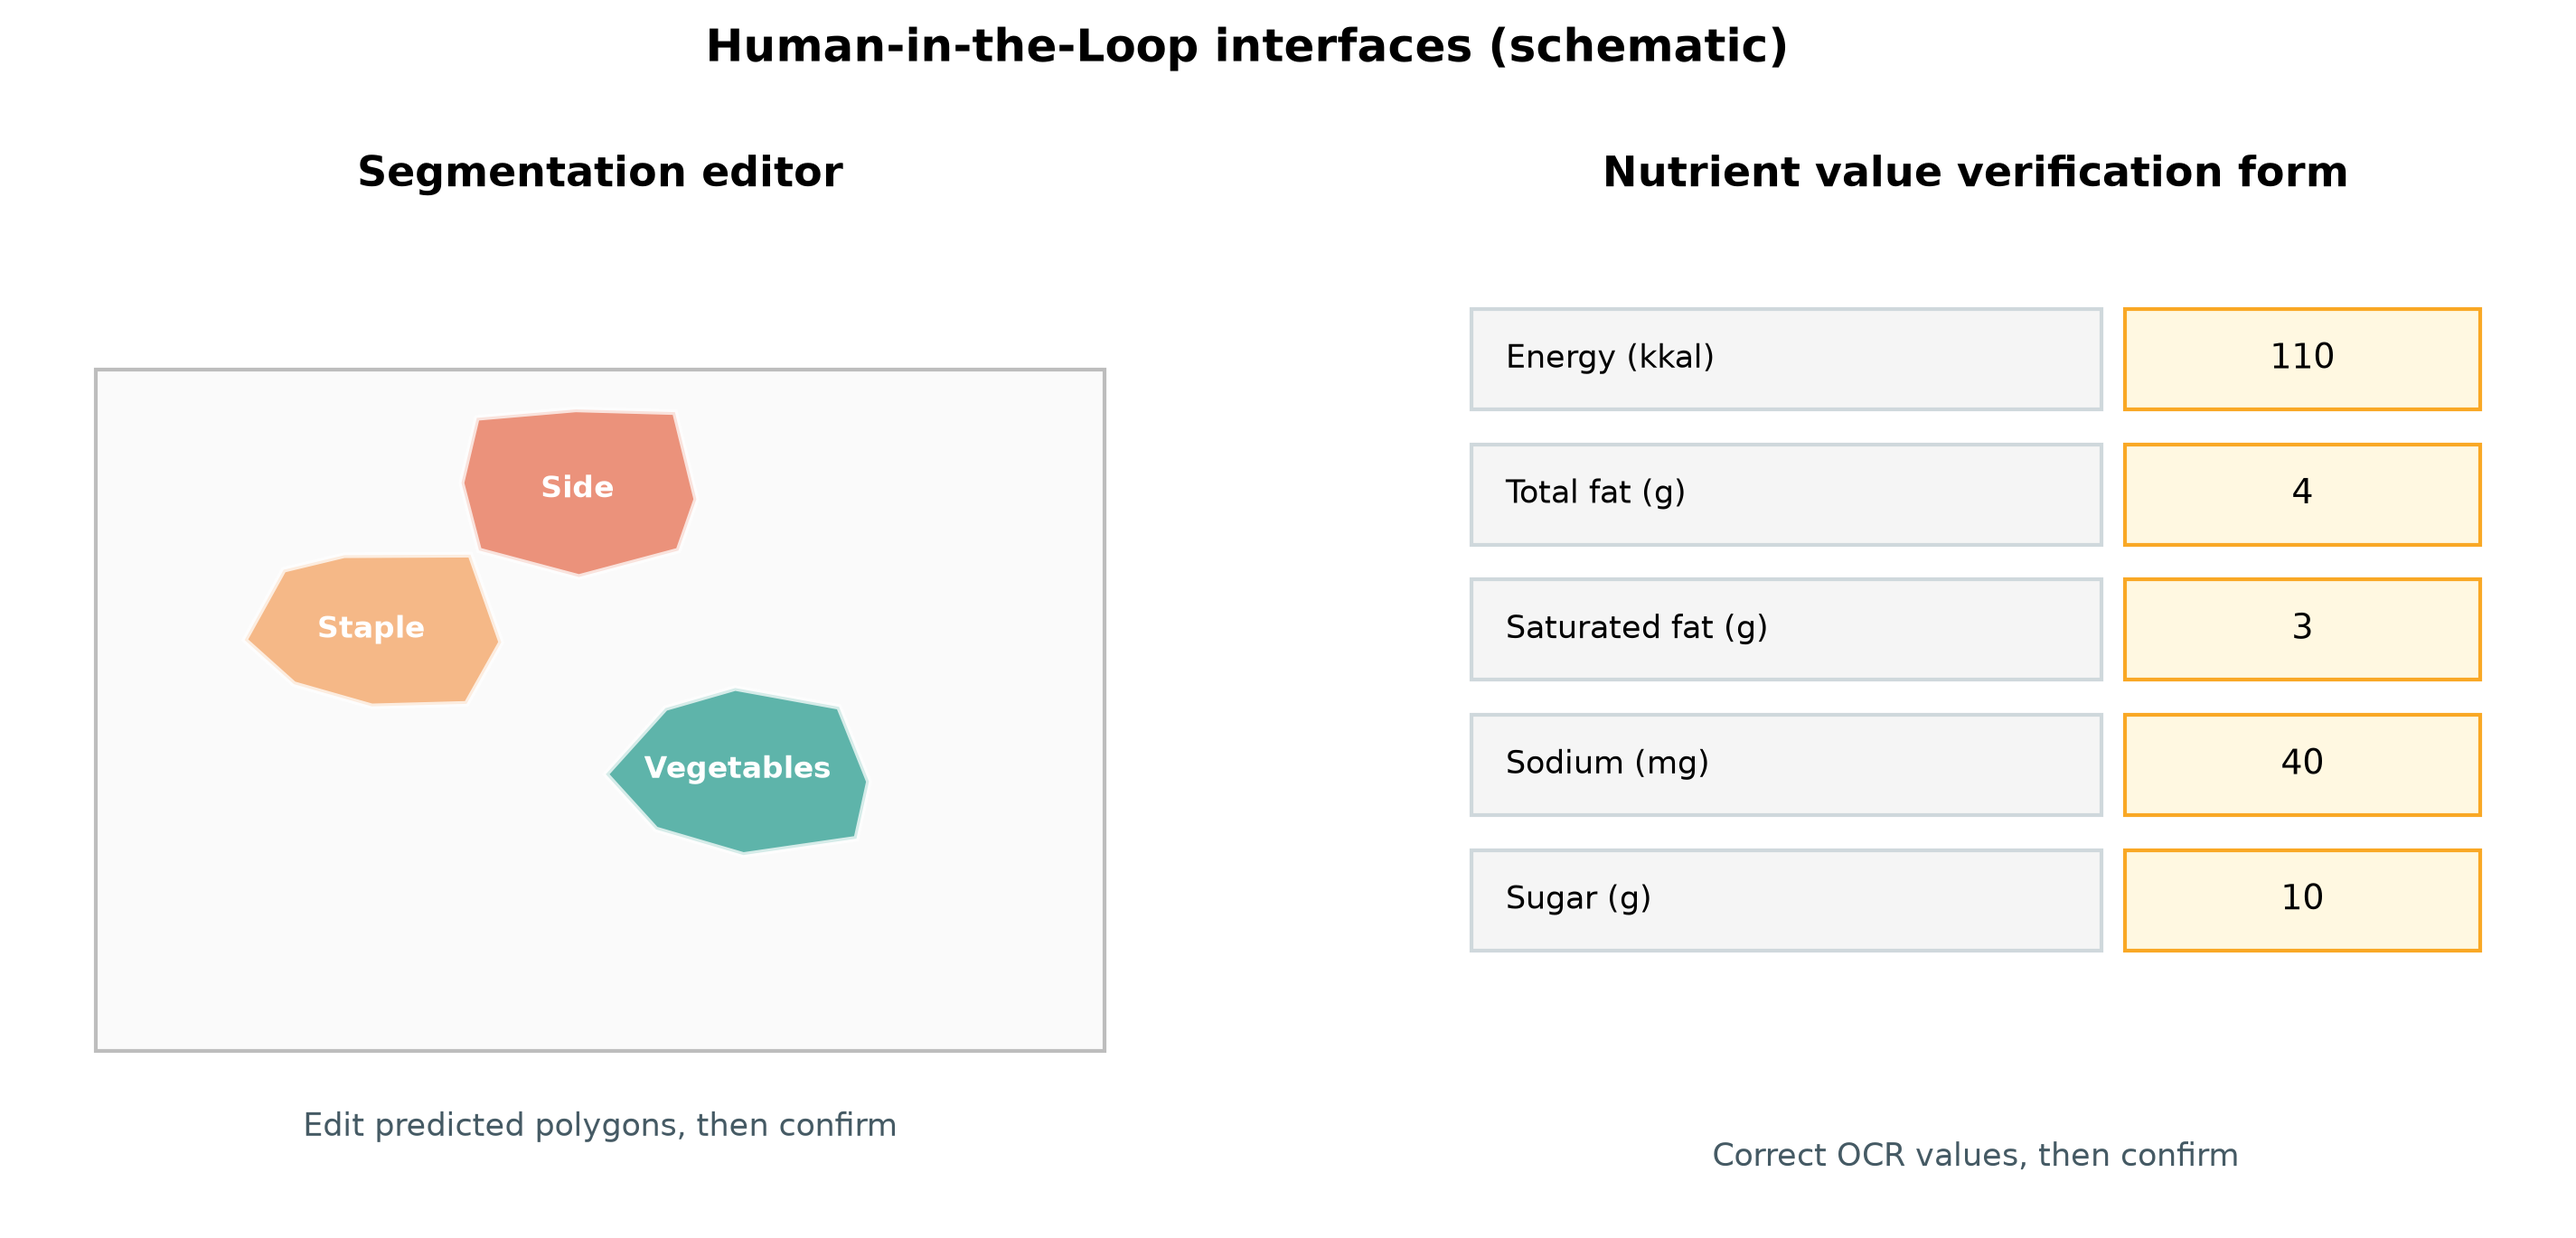
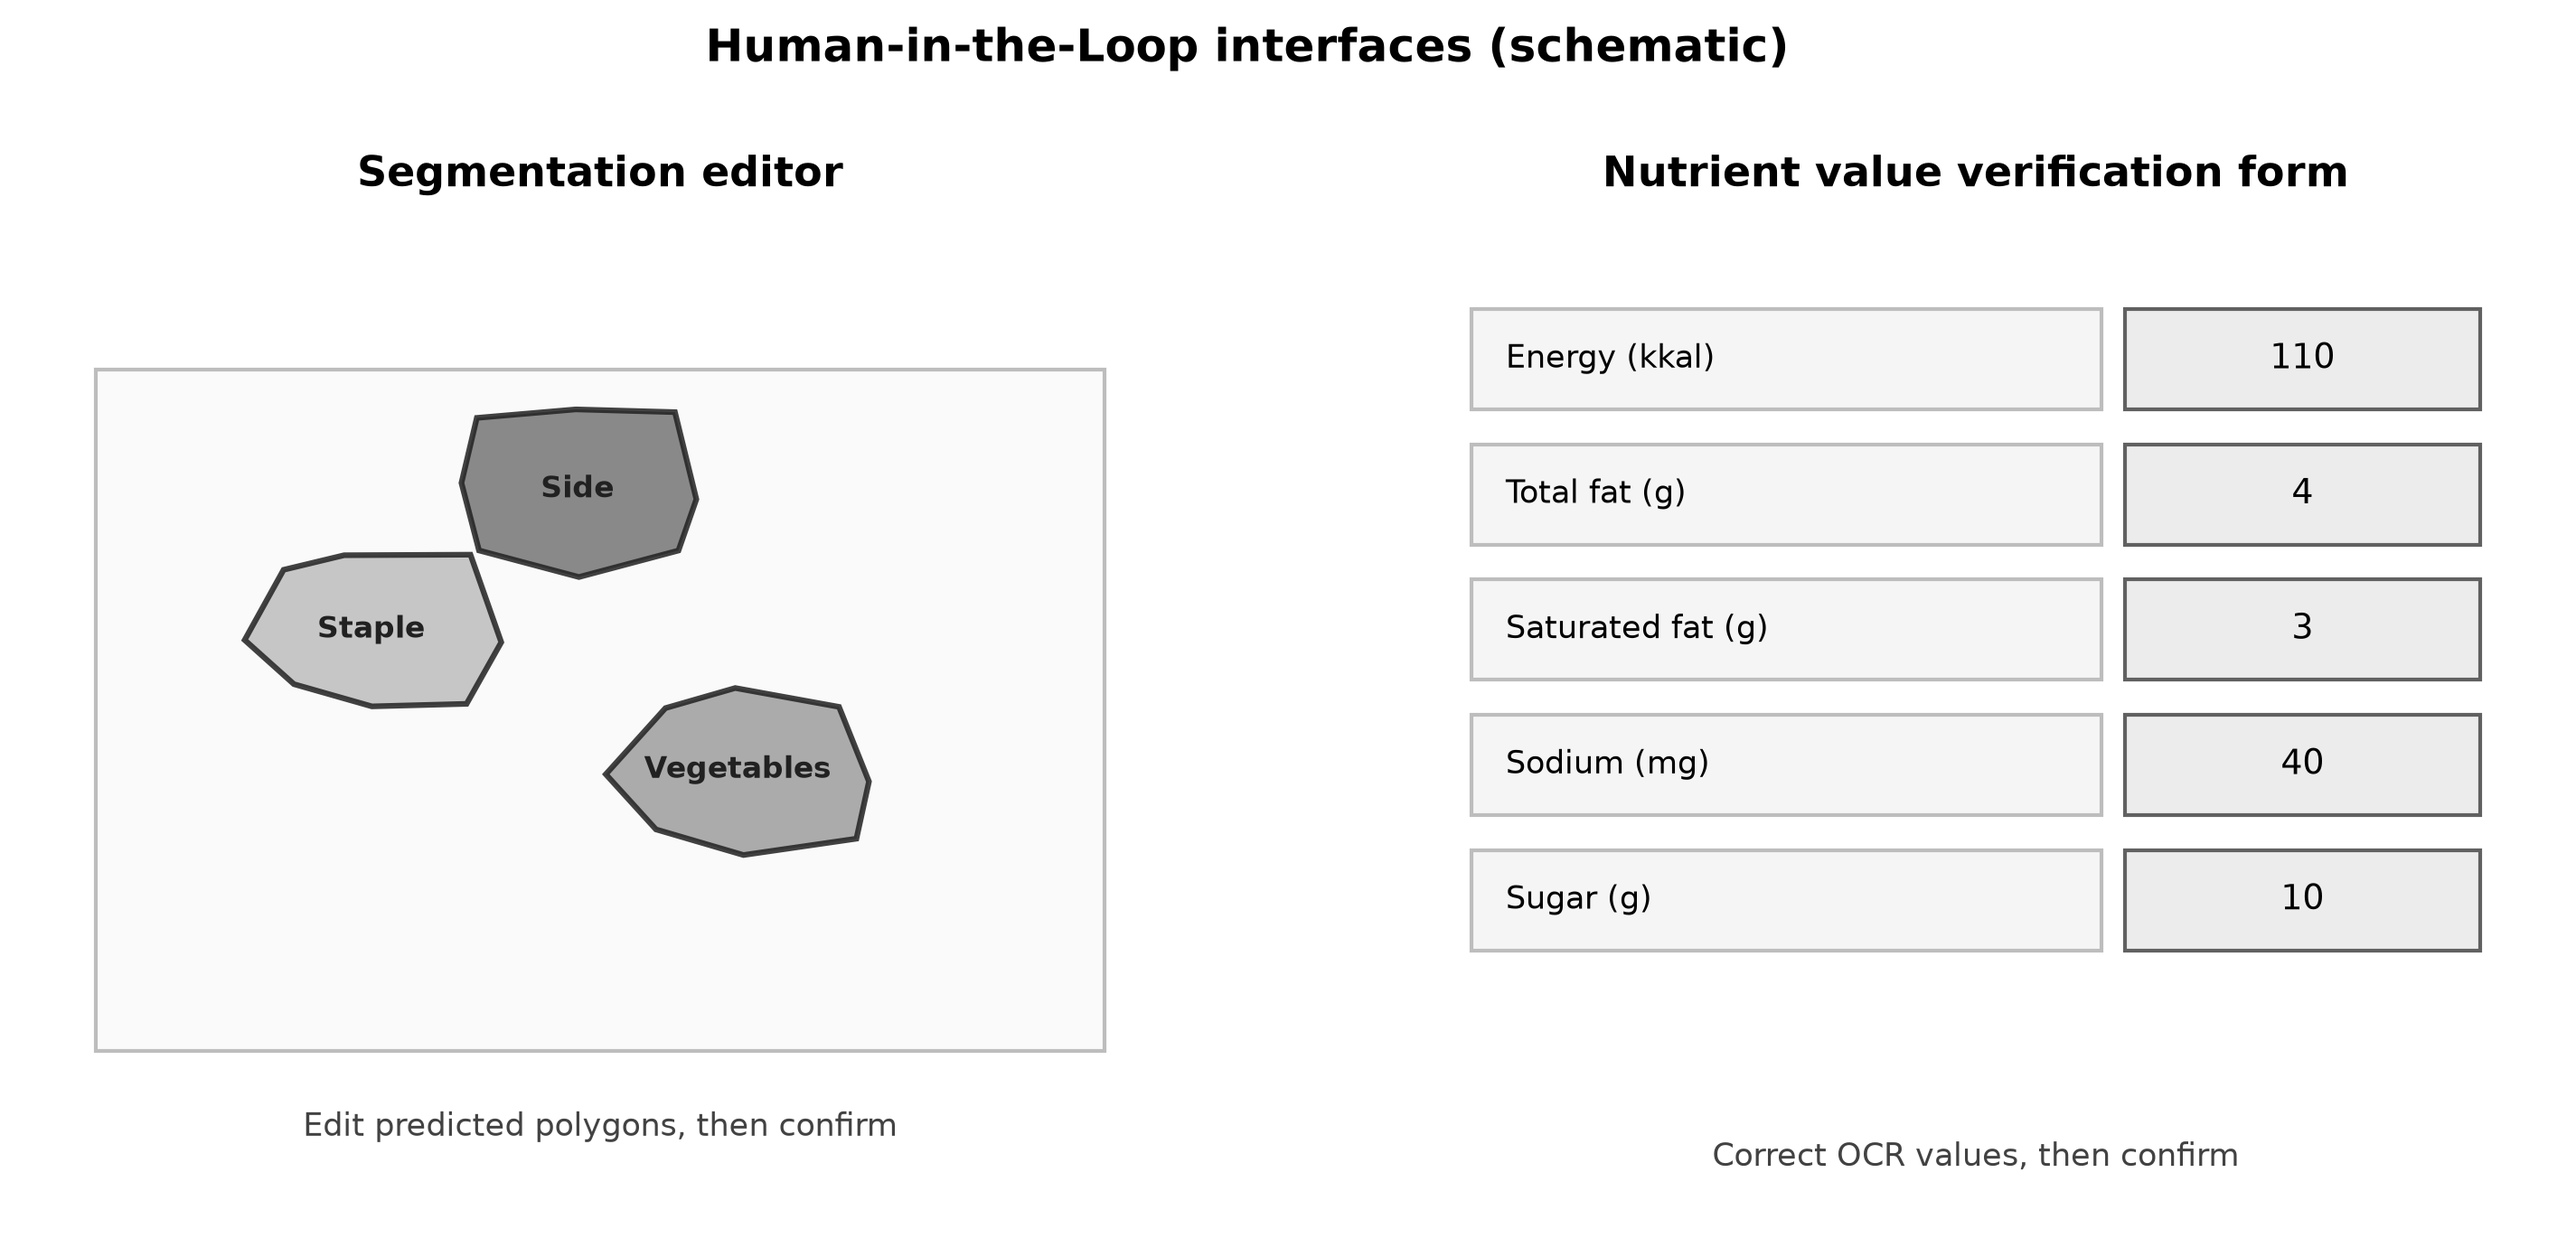
style(figures): make drawn diagrams greyscale
Figure 1 (architecture block diagram), Figure 2 (HITL schematic), and Figure 9 (OCR pipeline) are now black-and-white/grey like the reference block diagram. Data figures (3-8, 10) are unchanged as they come from experiment output. Also fixes the 'EXIF oorient' typo in Figure 9.

diff --git a/experiments/scripts/make_paper_figures.py b/experiments/scripts/make_paper_figures.py
@@ -117,18 +117,24 @@ def figure1():
     BH, BG = 0.036, 0.011
     cont_top = grp_top - 0.030
 
+    # ---- greyscale palette (matches the reference block diagram) ----------
+    IN_F = "#f2f2f2"        # input / lightest fill
+    F1, F2, F3, F4 = "#f7f7f7", "#eeeeee", "#e4e4e4", "#d5d5d5"
+    E, E2, E3 = "#9e9e9e", "#616161", "#212121"
+    TXT = "#000000"
+
     # ---- inputs -----------------------------------------------------------
     _box(ax, LX, top_in - in_h, LW, in_h,
-         "Plate photo — Isi Piringku  (640×640×3)", LIGHT, GREEN, fs=9)
+         "Plate photo — Isi Piringku  (640×640×3)", IN_F, E3, fs=9)
     _box(ax, RX, top_in - in_h, RW, in_h,
-         "Nutrition-label photo  (640×640×3)", LIGHTB, BLUE, fs=9)
+         "Nutrition-label photo  (640×640×3)", IN_F, E3, fs=9)
     _arrow(ax, (cxL, top_in - in_h), (cxL, grp_top - 0.004))
     _arrow(ax, (cxR, top_in - in_h), (cxR, grp_top - 0.004))
 
     # ---- dashed tower enclosures -----------------------------------------
-    _dgroup(ax, LX, grp_bot, LW, grp_top - grp_bot, GREEN,
+    _dgroup(ax, LX, grp_bot, LW, grp_top - grp_bot, E3,
             "Segmentation network — YOLO11s-seg")
-    _dgroup(ax, RX, grp_bot, RW, grp_top - grp_bot, BLUE,
+    _dgroup(ax, RX, grp_bot, RW, grp_top - grp_bot, E3,
             "Label extraction — PaddleOCR PP-OCRv4")
 
     # ---- local drawing helpers -------------------------------------------
@@ -138,7 +144,7 @@ def figure1():
             boxstyle="round,pad=0.003,rounding_size=0.010",
             linewidth=1.15, edgecolor=ec, facecolor=fc, zorder=2))
         ax.text(x + bw / 2, y - BH / 2, text, ha="center", va="center",
-                fontsize=fs, color="#102027", zorder=3, linespacing=1.2)
+                fontsize=fs, color=TXT, zorder=3, linespacing=1.2)
 
     def section(x, ytop, label, color, blocks, fs=7.4):
         y = ytop - 0.019
@@ -158,12 +164,12 @@ def figure1():
         return ybot
 
     # ---- left tower: segmentation network --------------------------------
-    y = section(bxL, cont_top, "Backbone", "#7cb342", [
-        ("Stem: Conv 3×3 / 2", "#f1f8e9", "#7cb342"),
-        ("P2: Conv / 2 + C3k2", "#f1f8e9", "#7cb342"),
-        ("P3: Conv / 2 + C3k2  →  P3", "#f1f8e9", "#7cb342"),
-        ("P4: Conv / 2 + C3k2  →  P4", "#f1f8e9", "#7cb342"),
-        ("P5: C3k2 + SPPF + C2PSA  →  P5", "#f1f8e9", "#7cb342"),
+    y = section(bxL, cont_top, "Backbone", E2, [
+        ("Stem: Conv 3×3 / 2", F1, E2),
+        ("P2: Conv / 2 + C3k2", F1, E2),
+        ("P3: Conv / 2 + C3k2  →  P3", F1, E2),
+        ("P4: Conv / 2 + C3k2  →  P4", F1, E2),
+        ("P5: C3k2 + SPPF + C2PSA  →  P5", F1, E2),
     ])
     # "× 3" repeated-stage marker across the P3-P5 stages
     i0, i1 = 2, 4
@@ -172,47 +178,47 @@ def figure1():
     ax.add_patch(FancyBboxPatch(
         (bxL - 0.006, mb), bw + 0.012, mt - mb,
         boxstyle="round,pad=0.001,rounding_size=0.008",
-        linewidth=0.9, edgecolor="#8bc34a", facecolor="none",
+        linewidth=0.9, edgecolor=E, facecolor="none",
         linestyle=(0, (1, 1.8)), zorder=1.5))
     ax.text(bxL + bw + 0.002, mt - 0.003, "× 3", ha="right", va="top",
-            fontsize=6.8, color="#558b2f", fontweight="bold", zorder=4)
+            fontsize=6.8, color=E2, fontweight="bold", zorder=4)
 
     y -= 0.022
-    y = section(bxL, y, "Neck — PAN-FPN", "#43a047", [
-        ("Top-down: Upsample + Concat + C3k2", "#e8f5e9", "#43a047"),
-        ("Bottom-up: Conv + Concat + C3k2", "#e8f5e9", "#43a047"),
+    y = section(bxL, y, "Neck — PAN-FPN", E2, [
+        ("Top-down: Upsample + Concat + C3k2", F2, E2),
+        ("Bottom-up: Conv + Concat + C3k2", F2, E2),
     ])
     y -= 0.022
-    y = section(bxL, y, "Segment head", "#00897b", [
-        ("Detect: box (DFL) + class", "#e0f2f1", "#00897b"),
-        ("Mask: Proto + coefficients", "#e0f2f1", "#00897b"),
+    y = section(bxL, y, "Segment head", E2, [
+        ("Detect: box (DFL) + class", F3, E2),
+        ("Mask: Proto + coefficients", F3, E2),
     ])
     y -= 0.022
-    left_bot = section(bxL, y, "Post-processing", "#2e7d32", [
-        ("Proportion per group (Eq. 1)", "#c8e6c9", "#2e7d32"),
+    left_bot = section(bxL, y, "Post-processing", E3, [
+        ("Proportion per group (Eq. 1)", F4, E3),
     ])
 
     # ---- right tower: label extraction -----------------------------------
-    y = section(bxR, cont_top, "Preprocessing", "#42a5f5", [
-        ("EXIF auto-orient", "#e3f2fd", "#64b5f6"),
-        ("Deskew — Hough transform", "#e3f2fd", "#64b5f6"),
-        ("Deglare — Telea inpainting", "#e3f2fd", "#64b5f6"),
-        ("CLAHE contrast + ROI crop", "#e3f2fd", "#64b5f6"),
+    y = section(bxR, cont_top, "Preprocessing", E2, [
+        ("EXIF auto-orient", F1, E2),
+        ("Deskew — Hough transform", F1, E2),
+        ("Deglare — Telea inpainting", F1, E2),
+        ("CLAHE contrast + ROI crop", F1, E2),
     ])
     y -= 0.022
-    y = section(bxR, y, "Recognition — PP-OCRv4", "#039be5", [
-        ("Text detection — DB (DBNet)", "#e1f5fe", "#039be5"),
-        ("Text recognition — CRNN + CTC", "#e1f5fe", "#039be5"),
+    y = section(bxR, y, "Recognition — PP-OCRv4", E2, [
+        ("Text detection — DB (DBNet)", F2, E2),
+        ("Text recognition — CRNN + CTC", F2, E2),
     ])
     y -= 0.022
-    y = section(bxR, y, "Layout reconstruction", "#00acc1", [
-        ("Semantic filter (drop ads/ingredients)", "#e0f7fa", "#00acc1"),
-        ("Fuzzy field mapping (sim ≥ 0.75)", "#e0f7fa", "#00acc1"),
-        ("Grid parser — rows + value columns", "#e0f7fa", "#00acc1"),
+    y = section(bxR, y, "Layout reconstruction", E2, [
+        ("Semantic filter (drop ads/ingredients)", F3, E2),
+        ("Fuzzy field mapping (sim ≥ 0.75)", F3, E2),
+        ("Grid parser — rows + value columns", F3, E2),
     ])
     y -= 0.022
-    right_bot = section(bxR, y, "Output", "#1565c0", [
-        ("Per-serving nutrient fields", "#b3e5fc", "#1565c0"),
+    right_bot = section(bxR, y, "Output", E3, [
+        ("Per-serving nutrient fields", F4, E3),
     ])
 
     # ---- decision layer ---------------------------------------------------
@@ -222,11 +228,11 @@ def figure1():
     rx, rw = 0.595, 0.200
     fx, fw = 0.850, 0.130
     _box(ax, hx, band_y, hw, band_h,
-         "Human-in-the-Loop\nverify masks & values", "#f3e5f5", PURPLE, fs=8.2)
+         "Human-in-the-Loop\nverify masks & values", "#ededed", E3, fs=8.2)
     _box(ax, rx, band_y, rw, band_h,
-         "Clinical Rules Engine\nBMR/TDEE + limits", "#e8eaf6", "#3949ab", fs=8.2)
+         "Clinical Rules Engine\nBMR/TDEE + limits", "#e0e0e0", E3, fs=8.2)
     _box(ax, fx, band_y, fw, band_h,
-         "Feedback\nSAFE / WARNING /\nDANGER", "#ffebee", "#c62828", fs=8.2)
+         "Feedback\nSAFE / WARNING /\nDANGER", "#cfcfcf", E3, fs=8.2)
 
     _arrow(ax, (cxL, left_bot), (hx + 0.060, band_top))
     _arrow(ax, (cxR, right_bot), (hx + 0.185, band_top))
@@ -239,13 +245,13 @@ def figure1():
             "Segmentation: 11,684 train / 2,017 internal-val images · YOLO11s-seg · "
             "100 epochs (best 48) · AdamW lr0 = 1×10⁻³ · batch 16 · 640×640 · "
             "internal mask mAP50 71.66%, mAP50-95 56.91%.",
-            ha="center", va="center", fontsize=6.9, color=GREY)
+            ha="center", va="center", fontsize=6.9, color="#424242")
     ax.text(0.5, 0.020,
             "External generalisation (5,013 images): mask mAP50 69.15% (UEC) · "
             "63.66% (FoodSeg103) · 17.06% (FruitSeg30).   "
             "Label pilot (n = 6): field accuracy 21.74% → 47.83%.   "
             "Rules verified 36/36 limits, 30/30 decisions.",
-            ha="center", va="center", fontsize=6.9, color=GREY)
+            ha="center", va="center", fontsize=6.9, color="#424242")
     save(fig, 1, dpi=200)
 
 
@@ -266,17 +272,19 @@ def figure2():
     rng = np.random.default_rng(42)
     centers = [(0.30, 0.58), (0.62, 0.44), (0.48, 0.72)]
     names = ["Staple Food", "Vegetables", "Side Dishes"]
+    grey = {"Staple Food": "#bdbdbd", "Vegetables": "#9e9e9e",
+            "Side Dishes": "#757575"}
     for (cx, cy), name in zip(centers, names):
         pts = np.array([
             [cx + 0.11 * np.cos(t), cy + 0.09 * np.sin(t)]
             for t in np.linspace(0, 2 * np.pi, 9)[:-1]
         ]) + rng.normal(0, 0.012, (8, 2))
-        ax.add_patch(Polygon(pts, closed=True, facecolor=CLASS_COLORS[name],
-                             edgecolor="white", alpha=0.75, lw=1.5))
+        ax.add_patch(Polygon(pts, closed=True, facecolor=grey[name],
+                             edgecolor="#212121", alpha=0.85, lw=1.5))
         ax.text(cx, cy, name.split()[0], ha="center", va="center",
-                fontsize=8, color="white", fontweight="bold")
+                fontsize=8, color="#212121", fontweight="bold")
     ax.text(0.5, 0.075, "Edit predicted polygons, then confirm",
-            ha="center", fontsize=8.5, color=GREY)
+            ha="center", fontsize=8.5, color="#424242")
 
     ax = axes[1]
     ax.set_title("Nutrient value verification form", fontsize=11, fontweight="bold")
@@ -287,13 +295,13 @@ def figure2():
     for k, (name, val) in enumerate(fields):
         yy = y0 - k * 0.135
         ax.add_patch(Rectangle((0.06, yy), 0.55, 0.10, facecolor="#f5f5f5",
-                               edgecolor="#cfd8dc"))
+                               edgecolor="#bdbdbd"))
         ax.text(0.09, yy + 0.05, name, va="center", fontsize=8.5)
-        ax.add_patch(Rectangle((0.63, yy), 0.31, 0.10, facecolor="#fff8e1",
-                               edgecolor="#f9a825"))
+        ax.add_patch(Rectangle((0.63, yy), 0.31, 0.10, facecolor="#ececec",
+                               edgecolor="#616161"))
         ax.text(0.785, yy + 0.05, val, va="center", ha="center", fontsize=9)
     ax.text(0.5, 0.045, "Correct OCR values, then confirm",
-            ha="center", fontsize=8.5, color=GREY)
+            ha="center", fontsize=8.5, color="#424242")
 
     fig.suptitle("Human-in-the-Loop interfaces (schematic)",
                  fontsize=12, fontweight="bold", y=1.02)
@@ -428,19 +436,19 @@ def figure8():
 # --------------------------------------------------------------------------- #
 def figure9():
     stages = [
-        ("Label\nphoto", LIGHTB, BLUE),
-        ("EXIF\noorient", LIGHT, GREEN),
-        ("Deskew", LIGHT, GREEN),
-        ("Deglare", LIGHT, GREEN),
-        ("CLAHE", LIGHT, GREEN),
-        ("ROI\ncrop", LIGHT, GREEN),
-        ("PP-OCRv4\ndet + rec", "#fff3e0", ORANGE),
-        ("Semantic\nfilter", "#fff3e0", ORANGE),
-        ("Fuzzy field\nmapping", "#fff3e0", ORANGE),
-        ("Grid layout\nparser", "#fff3e0", ORANGE),
-        ("Energy/fat\nfallback", "#fff3e0", ORANGE),
-        ("Clinical\nvalidation", "#e8eaf6", "#3949ab"),
-        ("Nutrient\nfields", "#fce4ec", "#c62828"),
+        ("Label\nphoto", "#f2f2f2", "#212121"),
+        ("EXIF\norient", "#f2f2f2", "#616161"),
+        ("Deskew", "#f2f2f2", "#616161"),
+        ("Deglare", "#f2f2f2", "#616161"),
+        ("CLAHE", "#f2f2f2", "#616161"),
+        ("ROI\ncrop", "#f2f2f2", "#616161"),
+        ("PP-OCRv4\ndet + rec", "#ececec", "#424242"),
+        ("Semantic\nfilter", "#ececec", "#424242"),
+        ("Fuzzy field\nmapping", "#ececec", "#424242"),
+        ("Grid layout\nparser", "#ececec", "#424242"),
+        ("Energy/fat\nfallback", "#ececec", "#424242"),
+        ("Clinical\nvalidation", "#e0e0e0", "#212121"),
+        ("Nutrient\nfields", "#cfcfcf", "#212121"),
     ]
     fig, ax = plt.subplots(figsize=(13, 5.2))
     ax.set_xlim(0, 1)
@@ -466,7 +474,7 @@ def figure9():
     ax.text(0.5, 0.055,
             "Preprocessing keeps the recognition stage robust to phone-camera labels; "
             "the\nlayout parser and mapping stages recover the per-serving values.",
-            ha="center", va="center", fontsize=9, style="italic", color=GREY,
+            ha="center", va="center", fontsize=9, style="italic", color="#424242",
             linespacing=1.5)
     save(fig, 9)
 

diff --git a/figures/README.md b/figures/README.md
@@ -38,6 +38,9 @@ Perintah itu mengganti penanda `[[INSERT FIGURE N HERE ...]]` di naskah dengan
 
 ## Catatan
 - Resolusi 300 DPI; format PNG.
+- Figure 1, 2, dan 9 (diagram yang **digambar**) dibuat **hitam-putih / abu-abu**
+  seperti diagram blok referensi. Figure 3-8 dan 10 berasal dari hasil eksperimen
+  (kurva, confusion matrix, tabel) sehingga tampil apa adanya.
 - Figure 2 masih berupa **skema**, bukan screenshot asli. Jika Anda punya tangkapan
   layar editor segmentasi dan form verifikasi, timpa `figure 2.png` dengan screenshot asli.
 - Caption resmi sudah ada di naskah (di bawah penanda `[[INSERT FIGURE N HERE ...]]`),
